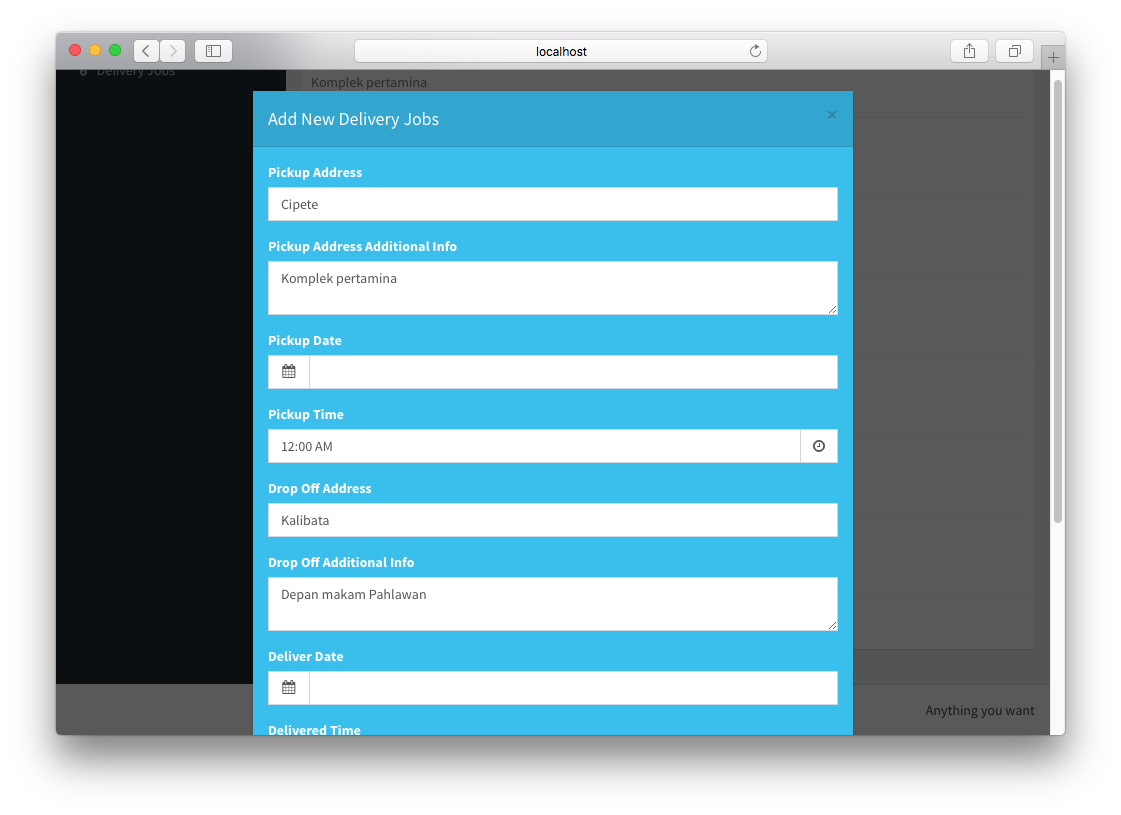
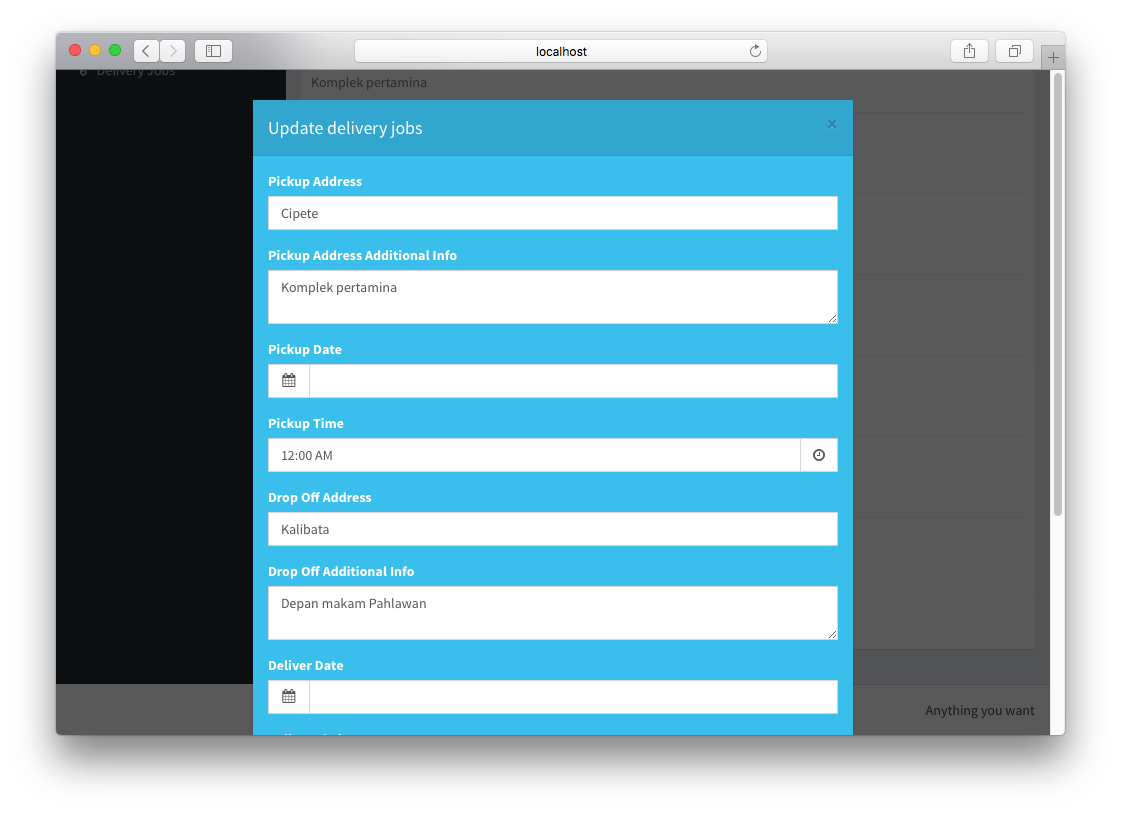
update readme with screenshot

Changed region(s): [[0.2186, 0.092, 0.7806, 0.9202]]

diff --git a/README.md b/README.md
@@ -54,6 +54,42 @@ After installation of requirements complete, and you already create user, you ca
 access to Courier list can be done by clicking on Courier menu at sidebar, then the courier list page will show
 ![alt text](https://raw.githubusercontent.com/pace-noge/apt-assessment/master/docs/courier_list.png 'courier list')
 
-#### Create new courier
+##### Create new courier
 on Courier list page, click at Add button, then the modal form for creating new courier will pop up
-![alt text]( 'New Courier')
+![alt text](https://raw.githubusercontent.com/pace-noge/apt-assessment/master/docs/new_courier.png 'New Courier')
+
+##### Courier detail
+to access the courier detail you can click at courier name
+![alt text](https://raw.githubusercontent.com/pace-noge/apt-assessment/master/docs/courier_detail.png 'Courier Detail')
+
+##### Update Courier
+to update courier just click at the update button then, form for updating the courier will pop up
+![alt text](https://raw.githubusercontent.com/pace-noge/apt-assessment/master/docs/update_courier.png 'Update Courier')
+
+##### Deleting Courier
+to delete courier just click on trash icon at Courier List Page
+
+#### Delivery Jobs
+##### Delivery Job List
+access to Delivery Job List can be done by clicking on Delivery jobs menu at sidebar, then the delivery jobs list page will show
+![alt text](https://raw.githubusercontent.com/pace-noge/apt-assessment/master/docs/dj_lists.png 'Delivery jobs list')
+
+##### Create new courier
+on Delivery Jobs list page, click at Add button, then the modal form for creating new delivery jobs will pop up
+![alt text](https://raw.githubusercontent.com/pace-noge/apt-assessment/master/docs/new_dj.png 'New Jobs')
+
+##### Delivery job detail
+to access the Delivery job detail you can click at delivery job pickup address link
+![alt text](https://raw.githubusercontent.com/pace-noge/apt-assessment/master/docs/dj_detail.png 'Delivery jobs Detail')
+
+##### Update delivery Job
+to update Delivery job just click at the update button then form for updating the delivery jobs will pop up
+![alt text](https://raw.githubusercontent.com/pace-noge/apt-assessment/master/docs/update_dj.png 'Update Job')
+
+##### Deleting Delivery Job
+to delete job, please click at the trash button on job detail
+
+#### Logout
+klik on user name on top right, the link for sign out will be shown click the link to logout
+
+![alt text](https://raw.githubusercontent.com/pace-noge/apt-assessment/master/docs/logout.png 'Logout')
